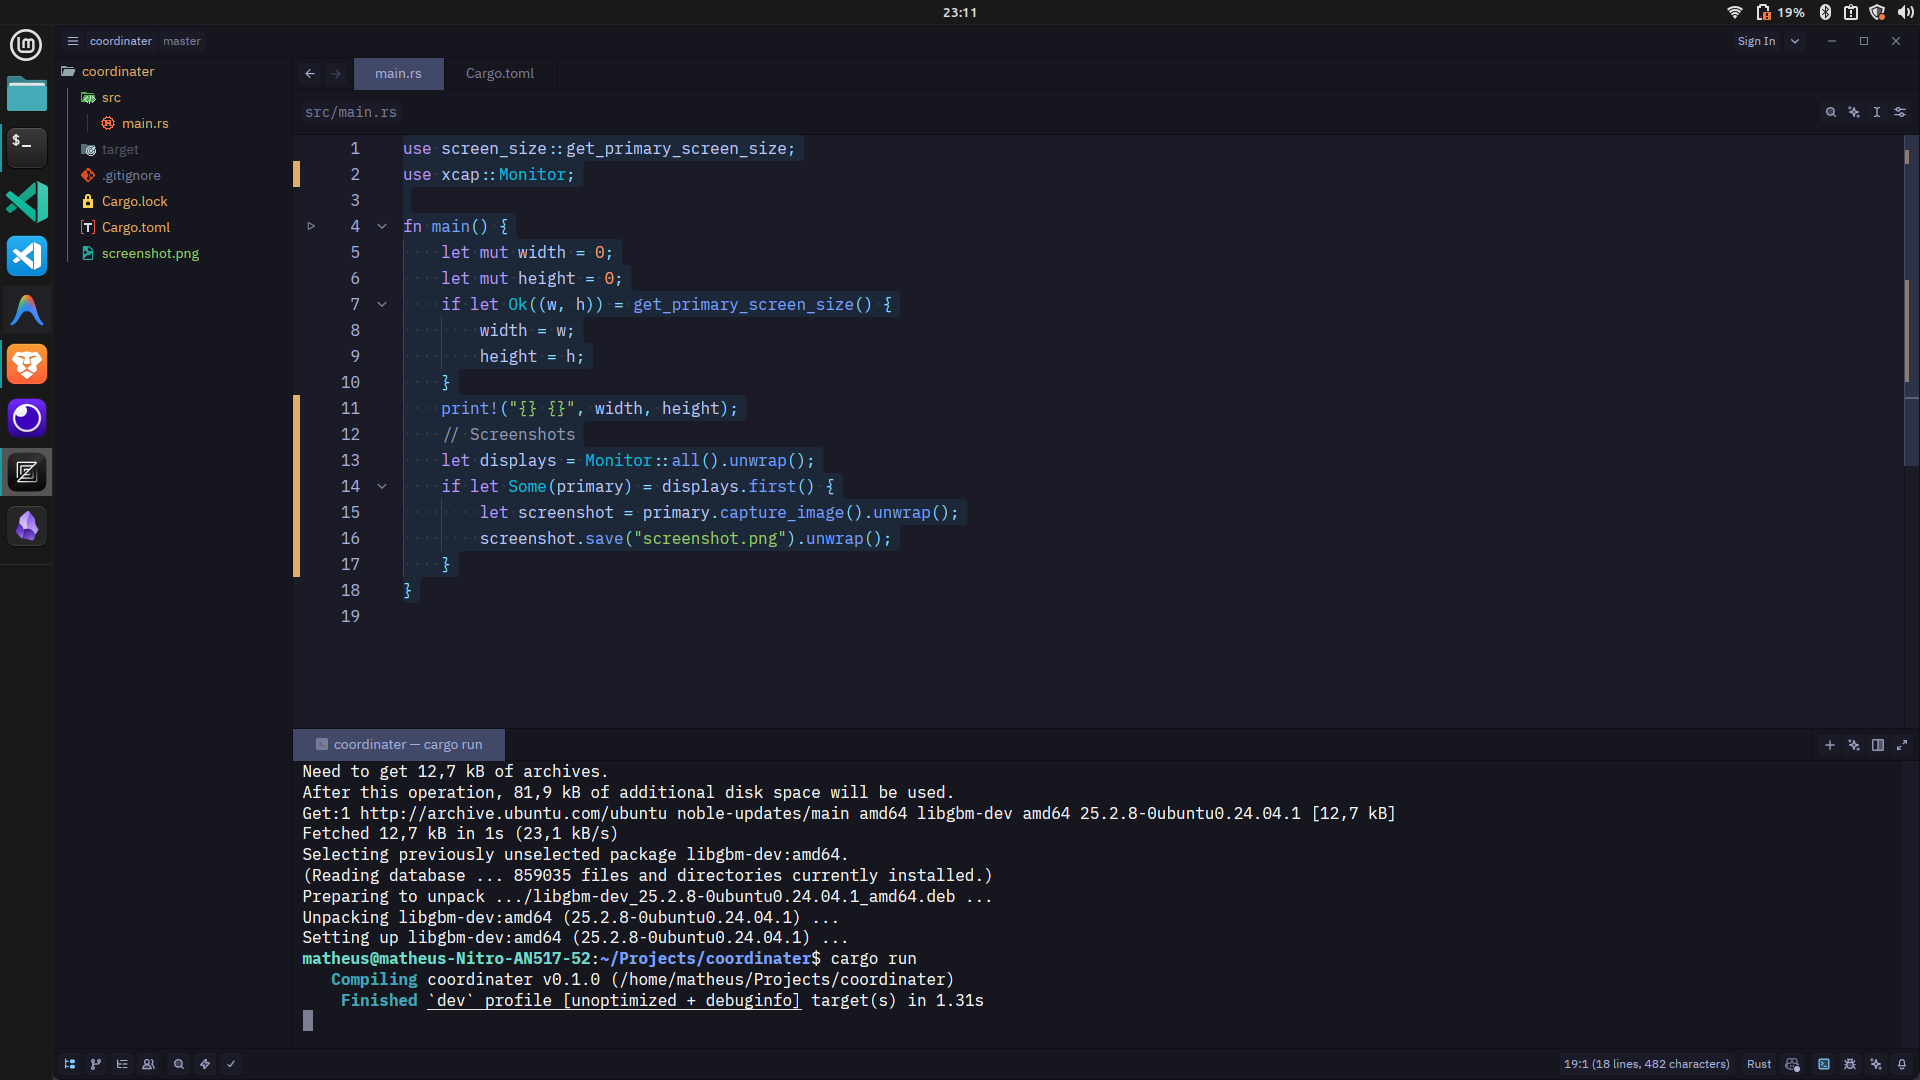
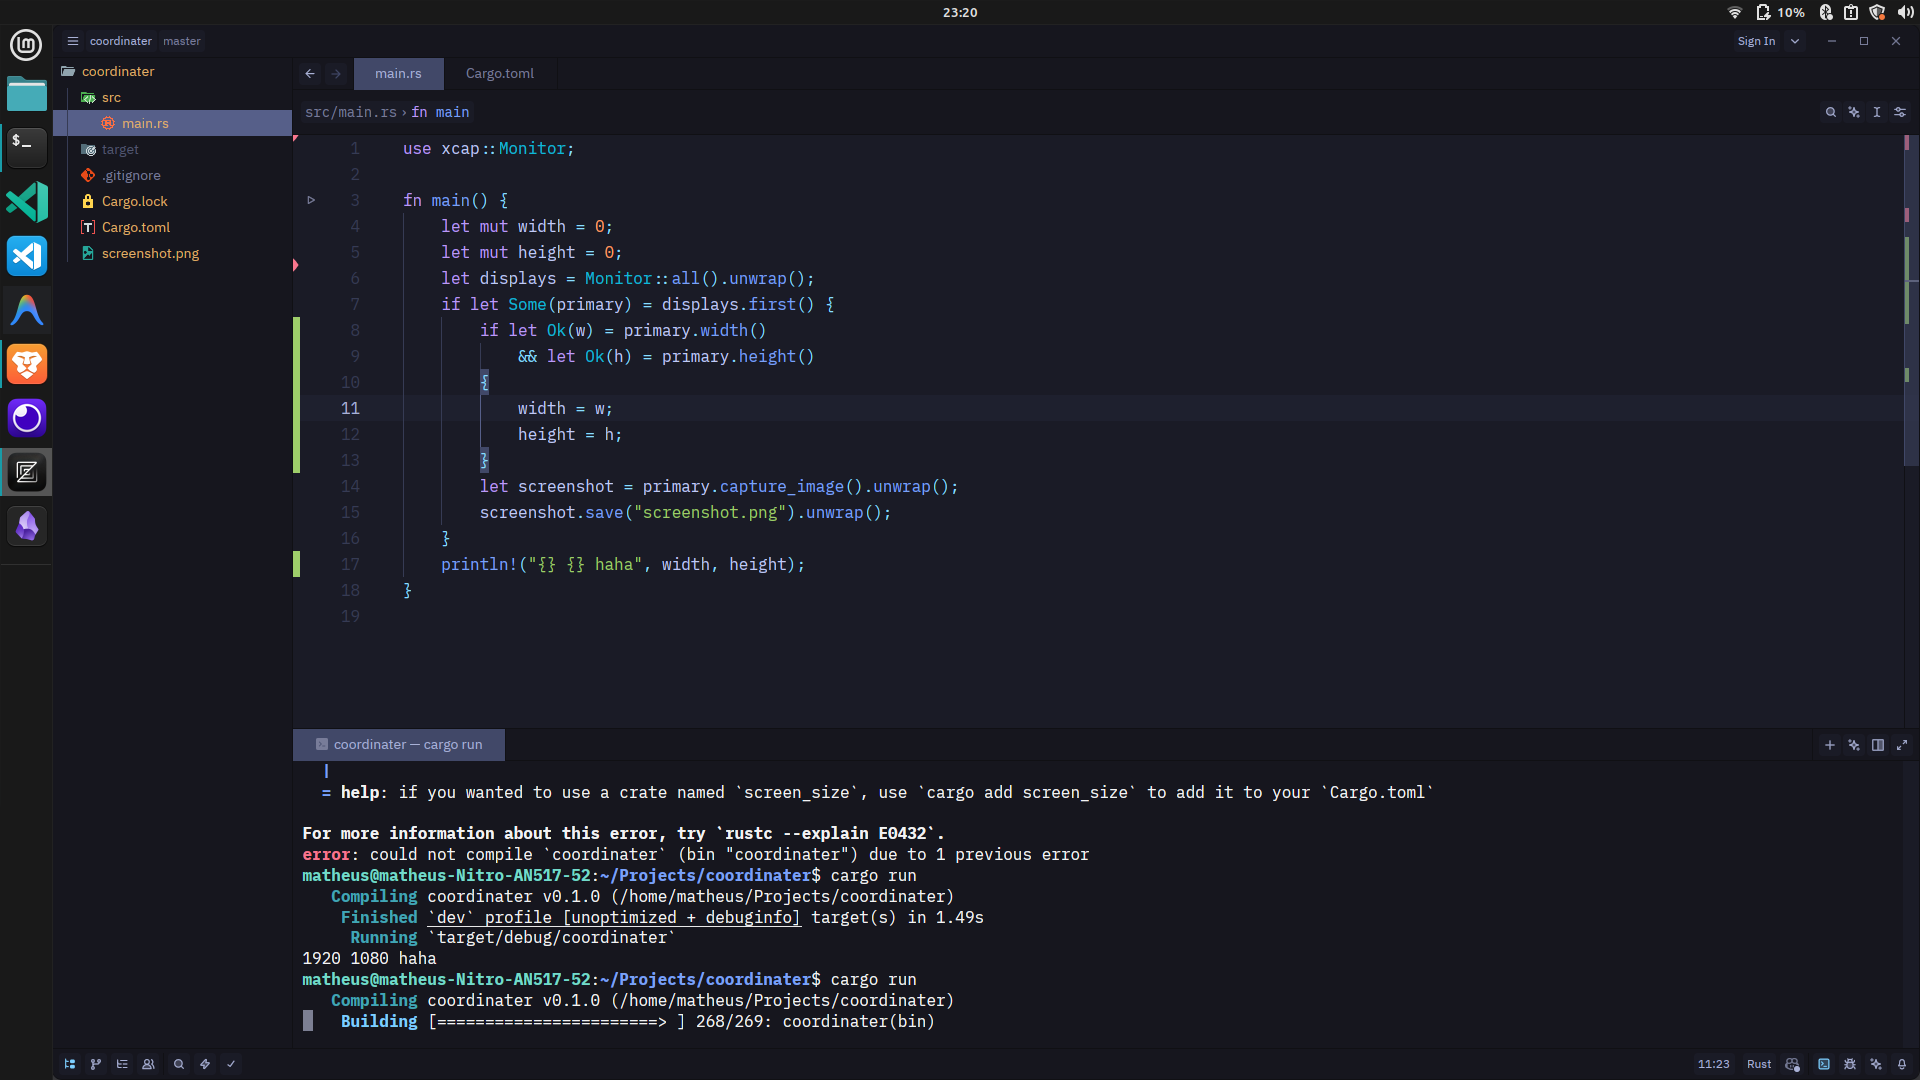
feat: screenshot and a new size get lib

diff --git a/src/main.rs b/src/main.rs
@@ -1,18 +1,18 @@
-use screen_size::get_primary_screen_size;
 use xcap::Monitor;
 
 fn main() {
     let mut width = 0;
     let mut height = 0;
-    if let Ok((w, h)) = get_primary_screen_size() {
-        width = w;
-        height = h;
-    }
-    print!("{} {}", width, height);
-    // Screenshots
     let displays = Monitor::all().unwrap();
     if let Some(primary) = displays.first() {
+        if let Ok(w) = primary.width()
+            && let Ok(h) = primary.height()
+        {
+            width = w;
+            height = h;
+        }
         let screenshot = primary.capture_image().unwrap();
         screenshot.save("screenshot.png").unwrap();
     }
+    println!("{} x {} size", width, height);
 }
